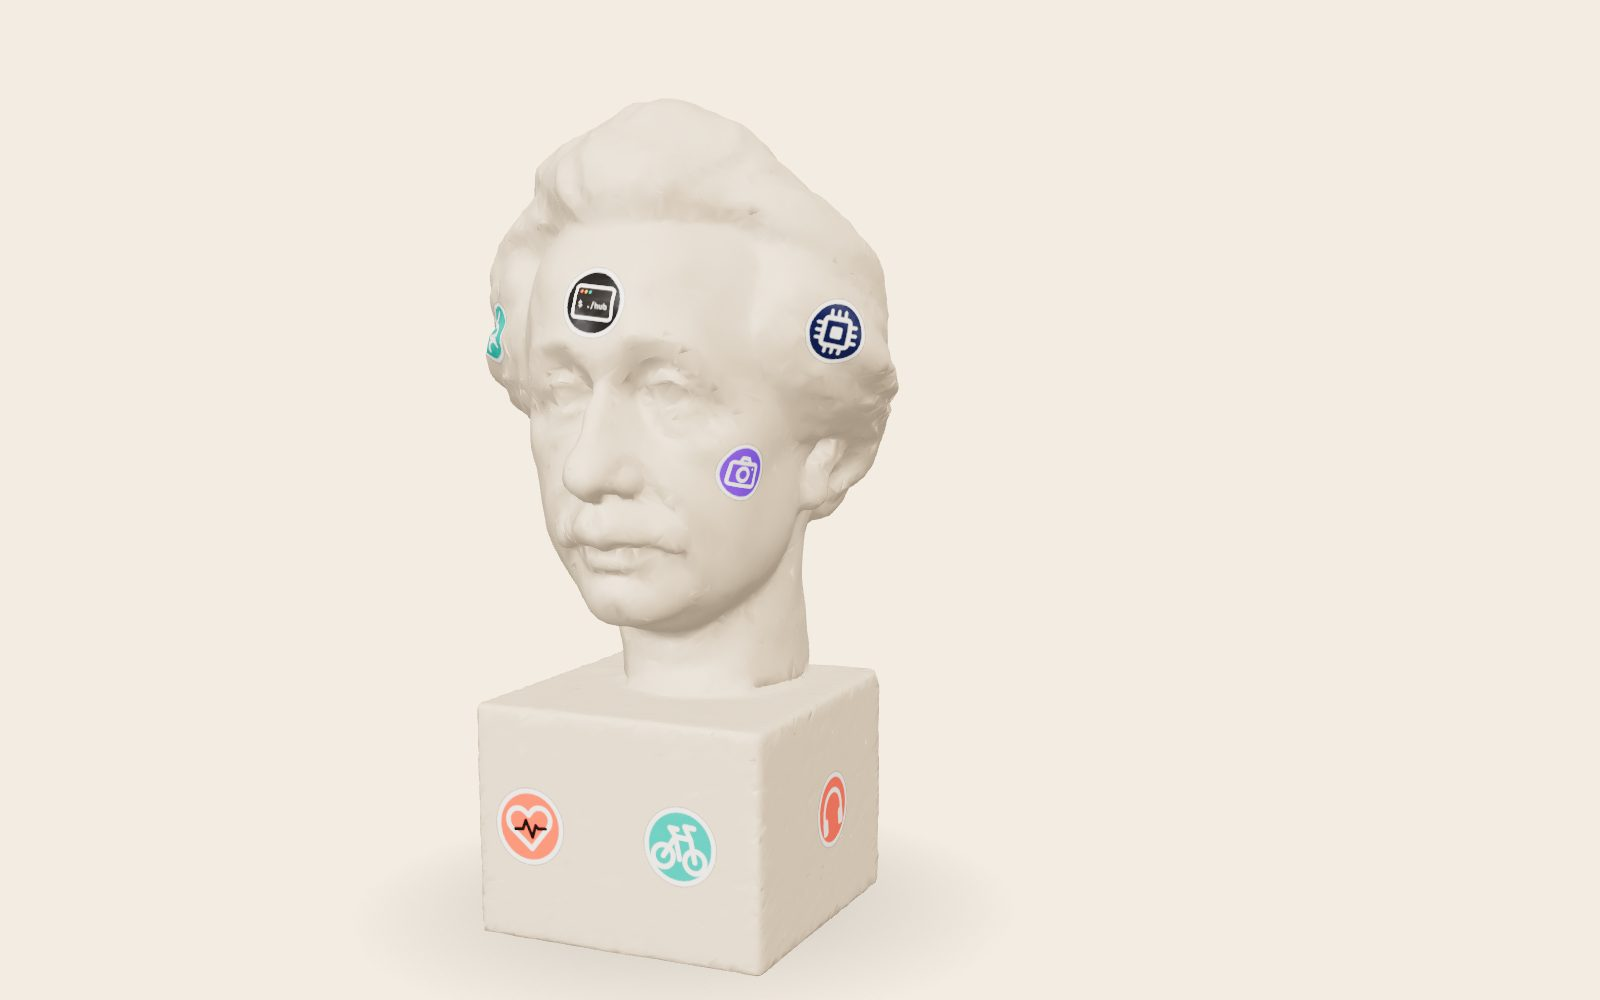
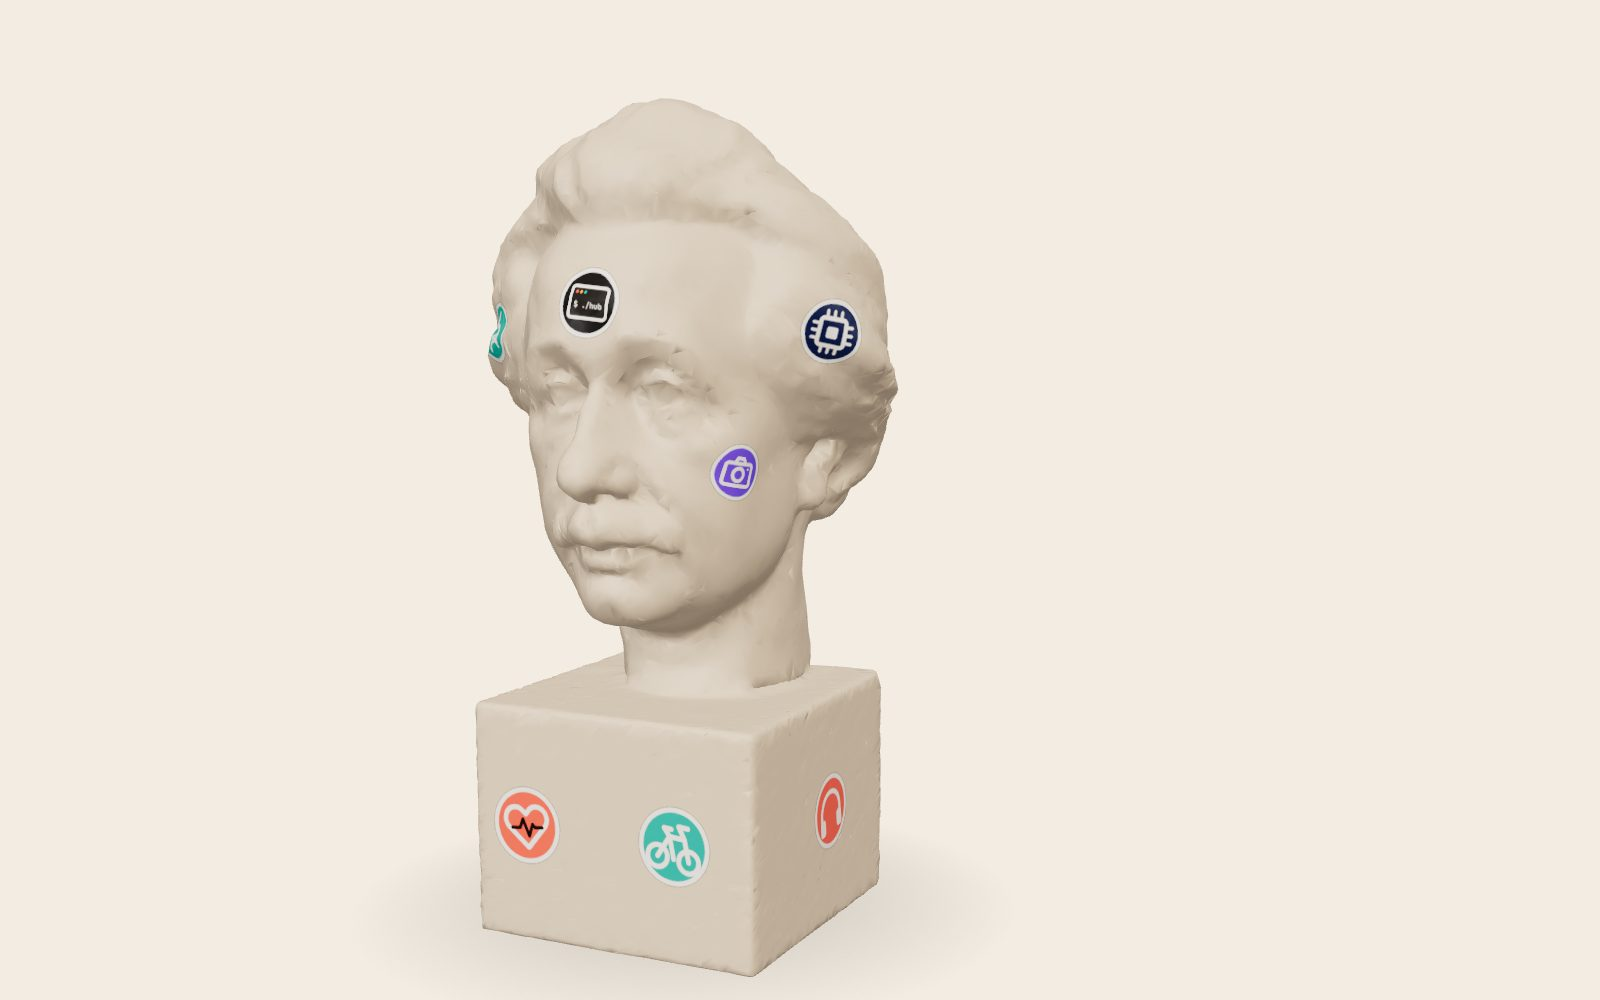
fix(3d): lower exposure so the clay reads as matte
toneMappingExposure 1 to 0.85 and environmentIntensity 0.55 to 0.4. The
lit forehead now measures #d5c9b8 instead of near white, so the face has
form without going dark. The poster is re-rendered under the same light
so the static frame matches the first live frame.

Changed region(s): [[0.2812, 0.155, 0.5625, 0.992], [0.3125, 0.93, 0.4062, 0.961], [0.2812, 0.899, 0.3125, 0.93]]

diff --git a/app/3d/Tour.tsx b/app/3d/Tour.tsx
@@ -134,7 +134,7 @@ export function Tour() {
     renderer.setPixelRatio(Math.min(window.devicePixelRatio, 2));
     renderer.outputColorSpace = THREE.SRGBColorSpace;
     renderer.toneMapping = THREE.ACESFilmicToneMapping;
-    renderer.toneMappingExposure = 1;
+    renderer.toneMappingExposure = 0.85;
     renderer.domElement.setAttribute("aria-hidden", "true");
     stage.appendChild(renderer.domElement);
 
@@ -148,7 +148,7 @@ export function Tour() {
     const pmrem = new THREE.PMREMGenerator(renderer);
     const environment = pmrem.fromScene(new RoomEnvironment(), 0.04).texture;
     scene.environment = environment;
-    scene.environmentIntensity = 0.55;
+    scene.environmentIntensity = 0.4;
 
     const key = new THREE.DirectionalLight("#fff1e0", 1.6);
     key.position.set(2, 3, 2.5);
